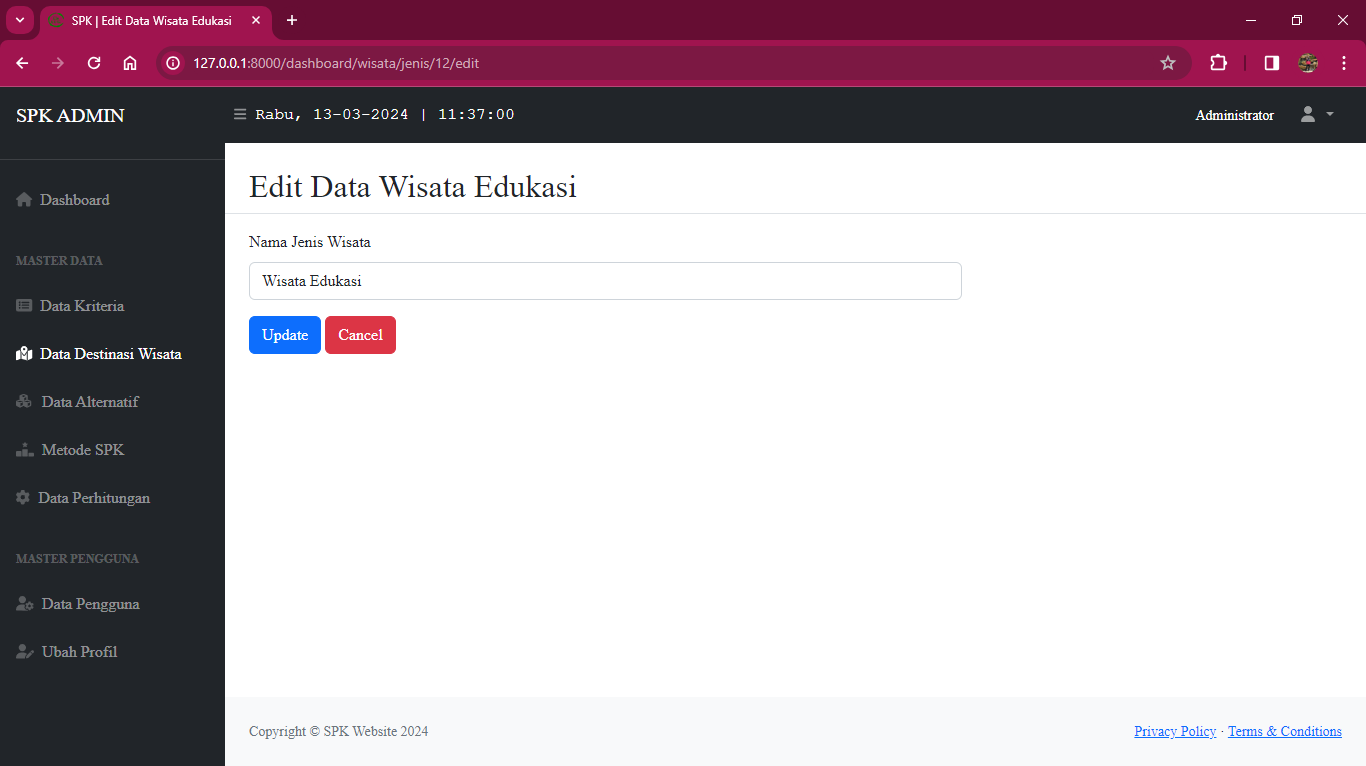
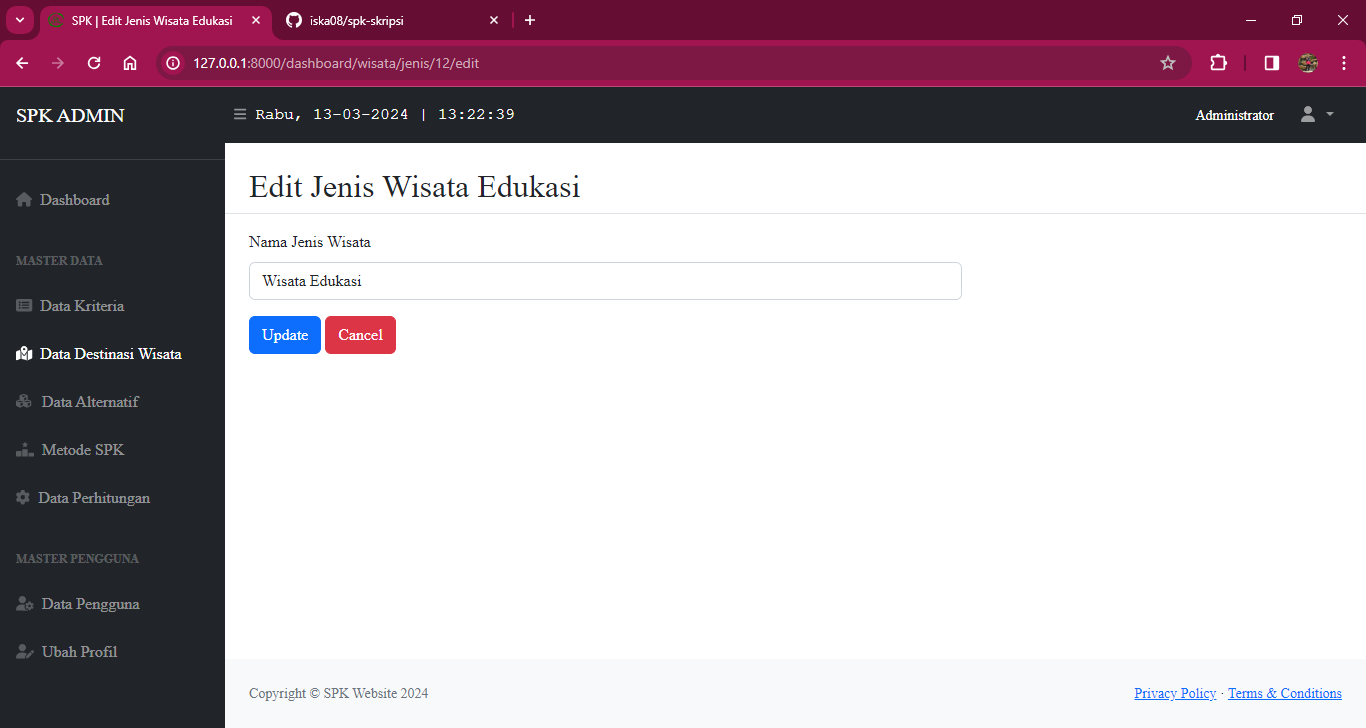
spk-revisi

diff --git a/resources/views/pages/admin/alternatif/data.blade.php b/resources/views/pages/admin/alternatif/data.blade.php
@@ -47,7 +47,7 @@
                         </option>
                         @endforeach
                     </select>
-                    <label class="form-label col-lg-7 col-sm-7 col-md-7" for="perPage">entries per page</label>
+                    <label class="form-label col-lg-6 col-sm-6 col-md-6" for="perPage">entries per page</label>
                 </div>
                 <form action="{{ route('alternatif.index') }}" method="GET" class="ms-auto float-end">
                     <div class="input-group mb-3">

diff --git a/app/Http/Controllers/Admin/KombinasiController.php b/app/Http/Controllers/Admin/KombinasiController.php
@@ -42,7 +42,7 @@ class KombinasiController extends Controller
         }
         $criterias = Criteria::all();
         return view('pages.admin.kombinasi.perbandingan.data', [
-            'title'             => 'Perhitungan',
+            'title'             => 'Data Perhitungan',
             'comparisons'       => $comparisons,
             'criterias'         => $criterias,
             'criteria_analysis' => $criteriaAnalysis,

diff --git a/app/Http/Controllers/Admin/JenisController.php b/app/Http/Controllers/Admin/JenisController.php
@@ -88,7 +88,7 @@ class JenisController extends Controller
 
         $jenis = Jenis::FindOrFail($id);
         return view('pages.admin.wisata.jenis.edit', [
-            'title'   => "Edit Data $jenis->jenis_name",
+            'title'   => "Edit Jenis $jenis->jenis_name",
             'jenises' => $jenis,
         ]);
     }

diff --git a/README.md b/README.md
@@ -7,11 +7,181 @@ Jurusan : Teknologi Informasi
 
 # Tampilan Aplikasi
 
-## Halaman Login
+## Login
 
-![Halaman Login](/screenshoot/Login.png)
+![Login](/screenshoot/Login.png)
 
-## Halaman Dashboard
+## Admin
 
-_Admin_ | _User_
-![Halaman Dashboard](/screenshoot/Admin%20-%20Dashboard.png) | ![Halaman Dashboard](/screenshoot/User%20-%20Dashboard.png)
+### Dashboard
+
+![Dashboard](/screenshoot/Admin%20-%20Dashboard.png)
+
+### Kriteria
+
+_Data Kriteria_
+![Data Kriteria](/screenshoot/Admin%20-%20Data%20Kriteria.png)
+_Tambah Kriteria_
+![Tambah Kriteria](/screenshoot/Admin%20-%20Tambah%20Kriteria.png)
+_Edit Kriteria_
+![Edit Kriteria](/screenshoot/Admin%20-%20Edit%20Kriteria.png)
+
+### Destinasi Wisata
+
+_Data Destinasi Wisata_
+![Data Destinasi Wisata](/screenshoot/Admin%20-%20Data%20Destinasi%20Wisata.png)
+_Tambah Data Destinasi Wisata_
+![Tambah Data Destinasi Wisata](/screenshoot/Admin%20-%20Tambah%20Destinasi%20Wisata.png)
+_Edit Data Destinasi Wisata_
+![Edit Data Destinasi Wisata](/screenshoot/Admin%20-%20Edit%20Destinasi%20Wisata.png)
+
+### Jenis Wisata
+
+_Data Jenis Wisata_
+![Data Jenis Wisata](/screenshoot/Admin%20-%20Data%20Jenis%20Wisata.png)
+_Tambah Jenis Wisata_
+![Tambah Jenis Wisata](/screenshoot/Admin%20-%20Tambah%20Jenis%20Wisata.png)
+_Edit Data Wisata_
+![Edit Data Wisata](/screenshoot/Admin%20-%20Edit%20Jenis%20Wisata.png)
+_Detail Jenis Wisata_
+![Detail Jenis Wisata](/screenshoot/Admin%20-%20Detail%20Jenis%20Wisata.png)
+
+### Alternatif
+
+_Data Alternatif_
+![Data Alternatif](/screenshoot/Admin%20-%20Data%20Alternatif.png)
+_Tambah Alternatif_
+![Tambah Alternatif](/screenshoot/Admin%20-%20Tambah%20Alternatif.png)
+_Edit Alternatif_
+![Edit Alternatif](/screenshoot/Admin%20-%20Edit%20Alternatif.png)
+
+### Perhitungan
+
+_Data Perhitungan_
+![Data Perhitungan](/screenshoot/Admin%20-%20Data%20Perhitungan.png)
+_Tambah Perhitungan_
+![Tambah Perhitungan](/screenshoot/Admin%20-%20Tambah%20Perhitungan.png)
+_Edit Perbandingan Kriteria_
+![Edit Perbandingan Kriteria](/screenshoot/Admin%20-%20Edit%20Perbandingan%20Kriteria.png)
+_Edit Bobot Kriteria_
+![Edit Bobot Kriteria](/screenshoot/Admin%20-%20Edit%20Bobot%20Kriteria.png)
+
+### Pengguna
+
+_Data Pengguna_
+![Data Pengguna](/screenshoot/Admin%20-%20Data%20Pengguna.png)
+_Tambah Pengguna_
+![Tambah Pengguna](/screenshoot/Admin%20-%20Tambah%20Pengguna.png)
+_Edit Pengguna_
+![Edit Pengguna](/screenshoot/Admin%20-%20Edit%20Pengguna.png)
+
+## User
+### Dashboard
+
+![Dashboard](/screenshoot/User%20-%20Dashboard.png)
+
+### Kriteria
+
+_Data Kriteria_
+![Data Kriteria](/screenshoot/User%20-%20Data%20Kriteria.png)
+
+### Destinasi Wisata
+
+_Data Destinasi Wisata_
+![Data Destinasi Wisata](/screenshoot/User%20-%20Data%20Destinasi%20Wisata.png)
+
+### Jenis Wisata
+
+_Data Jenis Wisata_
+![Data Jenis Wisata](/screenshoot/User%20-%20Data%20Jenis%20Wisata.png)
+_Detail Jenis Wisata_
+![Detail Jenis Wisata](/screenshoot/User%20-%20Detail%20Jenis%20Wisata.png)
+
+### Alternatif
+
+_Data Alternatif_
+![Data Alternatif](/screenshoot/User%20-%20Data%20Alternatif.png)
+
+## Metode SPK
+
+![Metode SPK](/screenshoot/Metode%20SPK%20-%20Data.png)
+
+### Perhitungan Metode
+
+#### Perhitungan Kombinasi
+
+_Matriks Penjumlahan Kolom Kriteria_
+![Matriks Penjumlahan Kolom Kriteria](/screenshoot/Kombinasi%20-%20Matriks%20Penjumlahan%20Kolom%20Kriteria.png)
+_Matriks Normalisasi Kriteria dan Nilai Prioritas_
+![Matriks Normalisasi Kriteria dan Nilai Prioritas](/screenshoot/Kombinasi%20-%20Matriks%20Normalisasi%20Kriteria%20dan%20Nilai%20Prioritas.png)
+_Matriks Perkalian Setiap Elemen dengan Nilai Prioritas_
+![Matriks Perkalian Setiap Elemen dengan Nilai Prioritas](/screenshoot/Kombinasi%20-%20Matriks%20Perkalian%20Setiap%20Elemen%20dengan%20Nilai%20Prioritas.png)
+_Menentukan λmaks dan Rasio Konsistensi_
+![Menentukan λmaks dan Rasio Konsistensi](/screenshoot/Kombinasi%20-%20Menentukan%20λmaks%20dan%20Rasio%20Konsistensi.png)
+_Normalisasi Tabel Alternatif_
+![Normalisasi Tabel Alternatif](/screenshoot/Kombinasi%20-%20Normalisasi%20Tabel%20Alternatif.png)
+_Ranking_
+![Ranking](/screenshoot/Kombinasi%20-%20Ranking.png)
+
+#### Perhitungan AHP
+
+_Matriks Penjumlahan Kolom Kriteria_
+![Matriks Penjumlahan Kolom Kriteria](/screenshoot/AHP%20-%20Matriks%20Penjumlahan%20Kolom%20Kriteria.png)
+_Matriks Normalisasi Kriteria dan Nilai Prioritas_
+![Matriks Normalisasi Kriteria dan Nilai Prioritas](/screenshoot/AHP%20-%20Matriks%20Normalisasi%20Kriteria%20dan%20Nilai%20Prioritas.png)
+_Matriks Perkalian Setiap Elemen dengan Nilai Prioritas_
+![Matriks Perkalian Setiap Elemen dengan Nilai Prioritas](/screenshoot/AHP%20-%20Matriks%20Perkalian%20Setiap%20Elemen%20dengan%20Nilai%20Prioritas.png)
+_Menentukan λmaks dan Rasio Konsistensi_
+![Menentukan λmaks dan Rasio Konsistensi](/screenshoot/AHP%20-%20Menentukan%20λmaks%20dan%20Rasio%20Konsistensi.png)
+_Menentukan Eigen Vektor Alternatif di Setiap Alternatif_
+![Menentukan Eigen Vektor Alternatif di Setiap Alternatif](/screenshoot/AHP%20-%20Menentukan%20Eigen%20Vektor%20Alternatif%20di%20Setiap%20Alternatif.png)
+_Ranking_
+![Ranking](/screenshoot/AHP%20-%20Ranking.png)
+
+#### Perhitungan SAW
+
+_Normalisasi Alternatif Destinasi Wisata_
+![Normalisasi Alternatif Destinasi Wisata](/screenshoot/SAW%20-%20Normalisasi%20Alternatif%20Destinasi%20Wisata.png)
+_Ranking_
+![Ranking](/screenshoot/SAW%20-%20Ranking.png)
+
+### Detail Perhitungan Metode
+#### Perhitungan Kombinasi
+
+_Matriks Penjumlahan Kolom Kriteria (Detail)_
+![Matriks Penjumlahan Kolom Kriteria (Detail)](/screenshoot/Kombinasi%20-%20Matriks%20Penjumlahan%20Kolom%20Kriteria%20(Detail).png)
+_Matriks Normalisasi Kriteria dan Nilai Prioritas (Detail)_
+![Matriks Normalisasi Kriteria dan Nilai Prioritas (Detail)](/screenshoot/Kombinasi%20-%20Matriks%20Normalisasi%20Kriteria%20dan%20Nilai%20Prioritas%20(Detail).png)
+_Matriks Perkalian Setiap Elemen dengan Nilai Prioritas (Detail)_
+![Matriks Perkalian Setiap Elemen dengan Nilai Prioritas (Detail)](/screenshoot/Kombinasi%20-%20Matriks%20Perkalian%20Setiap%20Elemen%20dengan%20Nilai%20Prioritas%20(Detail).png)
+_Menentukan λmaks dan Rasio Konsistensi (Detail)_
+![Menentukan λmaks dan Rasio Konsistensi (Detail)](/screenshoot/Kombinasi%20-%20Menentukan%20λmaks%20dan%20Rasio%20Konsistensi%20(Detail).png)
+_Normalisasi Tabel Alternatif (Detail)_
+![Normalisasi Tabel Alternatif (Detail)](/screenshoot/Kombinasi%20-%20Normalisasi%20Tabel%20Alternatif%20(Detail).png)
+_Ranking (Detail)_
+![Ranking (Detail)](/screenshoot/Kombinasi%20-%20Ranking%20(Detail).png)
+
+#### Perhitungan AHP
+
+_Matriks Penjumlahan Kolom Kriteria (Detail)_
+![Matriks Penjumlahan Kolom Kriteria (Detail)](/screenshoot/AHP%20-%20Matriks%20Penjumlahan%20Kolom%20Kriteria%20(Detail).png)
+_Matriks Normalisasi Kriteria dan Nilai Prioritas (Detail)_
+![Matriks Normalisasi Kriteria dan Nilai Prioritas (Detail)](/screenshoot/AHP%20-%20Matriks%20Normalisasi%20Kriteria%20dan%20Nilai%20Prioritas%20(Detail).png)
+_Matriks Perkalian Setiap Elemen dengan Nilai Prioritas (Detail)_
+![Matriks Perkalian Setiap Elemen dengan Nilai Prioritas (Detail)](/screenshoot/AHP%20-%20Matriks%20Perkalian%20Setiap%20Elemen%20dengan%20Nilai%20Prioritas%20(Detail).png)
+_Menentukan λmaks dan Rasio Konsistensi (Detail)_
+![Menentukan λmaks dan Rasio Konsistensi (Detail)](/screenshoot/AHP%20-%20Menentukan%20λmaks%20dan%20Rasio%20Konsistensi%20(Detail).png)
+_Menentukan Eigen Vektor Alternatif di Setiap Alternatif (Detail)_
+![Menentukan Eigen Vektor Alternatif di Setiap Alternatif (Detail)](/screenshoot/AHP%20-%20Menentukan%20Eigen%20Vektor%20Alternatif%20di%20Setiap%20Alternatif%20(Detail).png)
+_Ranking (Detail)_
+![Ranking (Detail)](/screenshoot/AHP%20-%20Ranking%20(Detail).png)
+
+#### Perhitungan SAW
+
+_Normalisasi Alternatif Destinasi Wisata (Detail)_
+![Normalisasi Alternatif Destinasi Wisata (Detail)](/screenshoot/SAW%20-%20Normalisasi%20Alternatif%20Destinasi%20Wisata%20(Detail).png)
+_Ranking (Detail)_
+![Ranking (Detail)](/screenshoot/SAW%20-%20Ranking%20(Detail).png)
+
+## Ubah Profil
+![Ubah Profil](/screenshoot/Ubah%20Profil.png)
